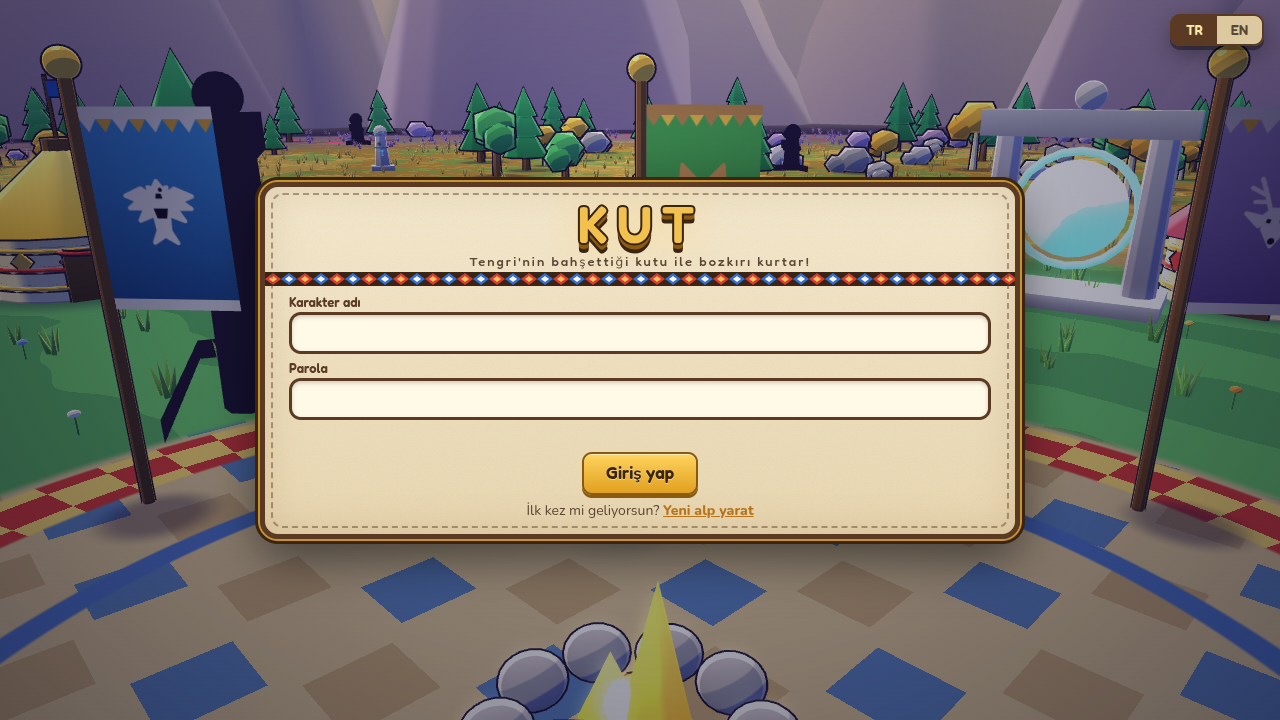
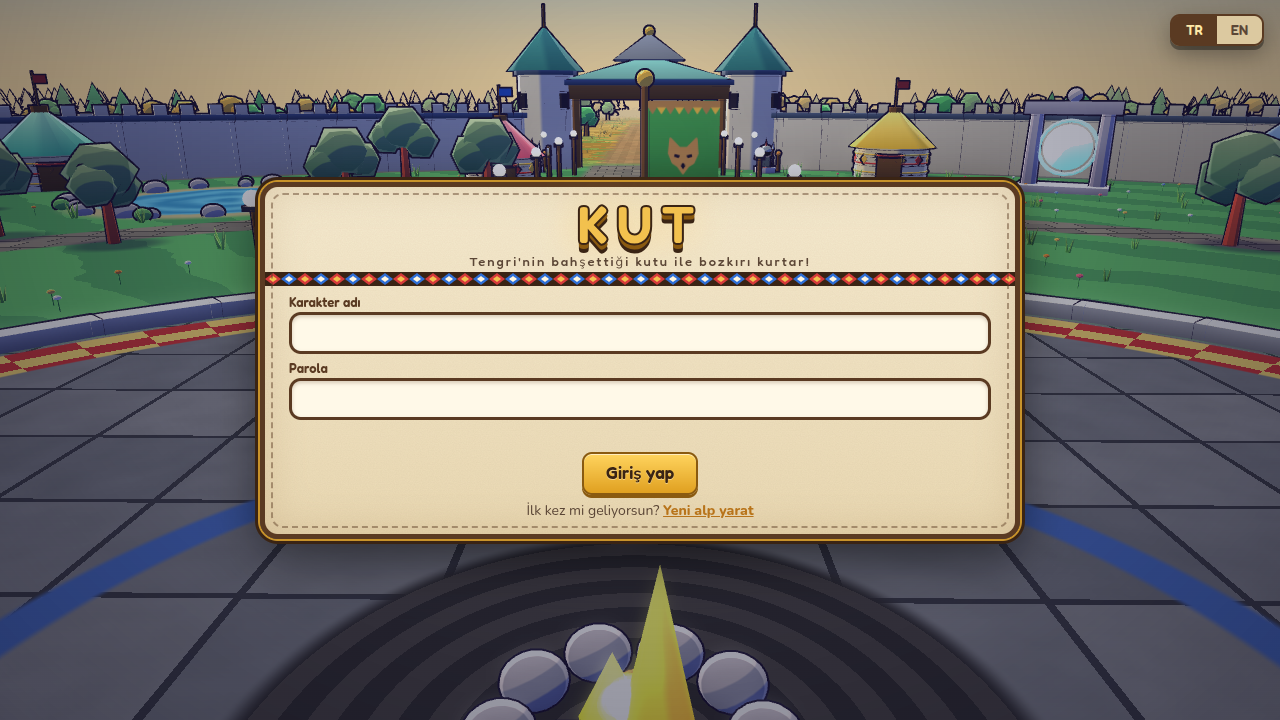
Docs: Harita v2

diff --git a/docs/ozellikler/HARITA_V2.md b/docs/ozellikler/HARITA_V2.md
@@ -1,0 +1,41 @@
+# Harita v2: büyük dünya ve surlu köy
+
+Oyuncu geri bildirimi: "harita çok küçük, köy merkezi ve yaratıklar iç içe". Ölçü örneği: Metin2'nin 768–1024 m'lik ana haritaları.
+
+## Ölçek
+
+| | v1 | v2 |
+|---|---|---|
+| Bozkır yarıçapı (`WORLD_R`) | 160 | **480** (alan ×9; 7 m/sn ile kenardan kenara ≈ 2 dk) |
+| Köy / güvenli bölge (`HUB_R`) | 36 | **84** (sur yarıçapı 80, meydan 24) |
+| Kutlu Otlak | r105 | r170 |
+| Erlik Diyarı | r150 | r320 |
+| Bozkır kampı | 64 kamp, aralık 21 | **112 kamp**, aralık 44 (yarıçap başına yoğunluk ≈ ⅓) |
+| Ağaç / kaya | 260 / 120 | ≈1 200 (%70'i koru kümesi) / 340 |
+
+Seviye mesafesi köy dışından (sv 1) haritanın kenarına (sv 48) doğrusal (`campLevel`, `levelDist`): seviye başına ≈8 m (eskiden 2,5 m). Bosslar, balbal taşları ve çatlaklar aynı ölçeğe taşındı. **Çatlak** bölgedeki bir oyuncunun 90–160 birim çevresinde açılır (büyük haritada keşfedilebilirlik); oyuncu yoksa bölgede rastgele.
+
+## Köy yerleşimi (`HUB`, `genHubObstacles`)
+
+- Merkezde 24 yarıçaplı **taş meydan** (koyu gri kesme taş + kilim halkaları, ateş çukuru, bordür, fenerler).
+- Dört yönde (D/B/K/G) **kesme taş yol** surdaki kapılara; kapılardan dışarı 250 birimlik toprak ana yollar (kamp, ağaç, kaya, boss, taş bu şeritten uzak: `roadDist`).
+- 80 yarıçaplı **sur** (çarpışmalı, kiremit şeritli, dişli), kapı yanlarında 8 **kule** ve iki katlı kapı kemerleri.
+- Mahalleler: Otağ ve Ak Sakal (batı), Demirhane ve Demirci (doğu), stel (kuzey), spawn ve Kapı Taşı (güney); 14 süs yurdu; 6 **pazar tezgâhı** (doğu yol); **Dokuma Tezgâhı** pazar yanında; **gölet** (kum kıyı, taş, nilüfer); sakura (pembe) bahçeler.
+- 14 muhafız: iç halka 6 + sur kapılarında 8.
+
+## Düzeltmeler (aynı oturumda)
+
+| Sorun | Neden | Çözüm |
+|---|---|---|
+| Yeniden doğunca karakter görünmez | Oyuncu görünümü ölümden ~1 sn sonra siliniyor, doğunca geri kurulmuyordu (`dyingT` sıfırlanmıyordu) | Görünüm silinmez; doğunca ölüm durumu sıfırlanır (`tests/perf/revive.ts`) |
+| Siyah dev nesneler (kapı, taşlar, tezgâh) | `addOutline` kopyası ana ağın konum/dönüşünü miras alıp ebeveyninkini bir kez daha uyguluyordu | Kontur yerel dönüşümü sıfırlanır |
+| Köyde sürekli ölüm | Kırmızı adlı (derece < 0) oyuncuyu muhafızlar saniyede %30 vuruyor; ölünce yine köyde doğuyordu | Kırmızı adlı güvenli bölge dışında doğar; GM ve doğma korumasındakine ateş yok; neden sohbette açıklanır (`tests/integration/guards.test.ts`) |
+| Kasma | Dev birleşik ağlar hep çiziliyordu; karakter başına 400 üçgenlik küçük küreler | Parçalama + LOD, küçük kürelerde düşük segment, uzak karakterde kontur kapalı |
+
+Üçgen sayısı (köy görünümü, yaratıksız): 1,02 M → 0,56 M (yeni köy dahil).
+
+## Bilinen / yapılmayan
+
+- Nüfus simülasyonu ekonomi sonuçları **eski haritada** koşuldu. Yürüme mesafesi ×3 olduğu için kamp ziyareti ve gelir dağılımı değişebilir; yeniden kalibrasyon gerekir.
+- Haritada hâlâ yalnız ana yollar var; ara yol/nehir/dağ geçidi, ek kasaba ve hızlı yolculuk noktaları yok.
+- Gerçek GPU'da FPS ölçülemedi (yazılım rasterleştirme); kanıt üçgen/çizim sayıları.
